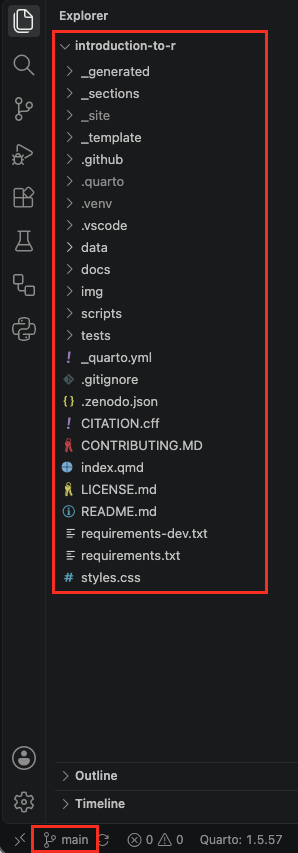
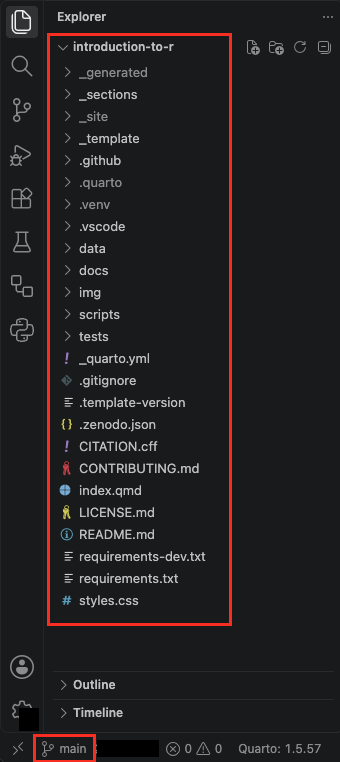
Built site for gh-pages

diff --git a/repository-structure.html b/repository-structure.html
@@ -437,7 +437,7 @@ Tip
 </tr>
 <tr class="even">
 <td><code>docs/</code></td>
-<td>The README for your training (<code>_template-README.md</code>)(which you copy over <code>README.md</code> when you start), and documentation for developers of the template</td>
+<td>The README for your training (<code>_template-README.md</code>, which you copy over <code>README.md</code> when you start), and documentation for developers of the template</td>
 <td style="text-align: center;">✏</td>
 </tr>
 <tr class="odd">
@@ -463,12 +463,12 @@ Tip
 <tr class="odd">
 <td><code>LICENSE.md</code></td>
 <td>The full text of the licence of your training: CC BY 4.0, unless you choose another licence in <code>data/course.yml</code>. Only replace it if you do</td>
-<td style="text-align: center;">✏🔒</td>
+<td style="text-align: center;">✏ 🔒</td>
 </tr>
 <tr class="even">
 <td><code>CONTRIBUTING.md</code></td>
 <td>How others can report problems and suggest improvements to your training. Ready to use, but you can adapt it if you like</td>
-<td style="text-align: center;">✏🔒</td>
+<td style="text-align: center;">✏ 🔒</td>
 </tr>
 <tr class="odd">
 <td><code>index.qmd</code>, <code>_sections/</code></td>
@@ -492,20 +492,25 @@ Tip
 </tr>
 <tr class="odd">
 <td><code>.github/</code></td>
-<td>The automatic processes that publish your website on GitHub</td>
+<td>The automatic processes that publish your website on GitHub, and that check once a week whether there is a new version of the template</td>
 <td style="text-align: center;">🔒</td>
 </tr>
 <tr class="even">
+<td><code>.template-version</code></td>
+<td>The version of the template your training is based on. If a newer version comes out, an issue appears in your repository to tell you, with a link to what has changed and how to update your repository.</td>
+<td style="text-align: center;">🔒</td>
+</tr>
+<tr class="odd">
 <td><code>.vscode/</code></td>
 <td>Settings for VS Code, such as the extensions it recommends when you open the repository</td>
 <td style="text-align: center;">🔒</td>
 </tr>
-<tr class="odd">
+<tr class="even">
 <td><code>.gitignore</code></td>
 <td>The list of files that stay on your computer and are never uploaded to GitHub, such as your preview and environment</td>
 <td style="text-align: center;">🔒</td>
 </tr>
-<tr class="even">
+<tr class="odd">
 <td><code>_quarto.yml</code>, <code>requirements.txt</code>, <code>requirements-dev.txt</code></td>
 <td>Settings for Quarto, and the Python packages the scripts need</td>
 <td style="text-align: center;">🔒</td>
